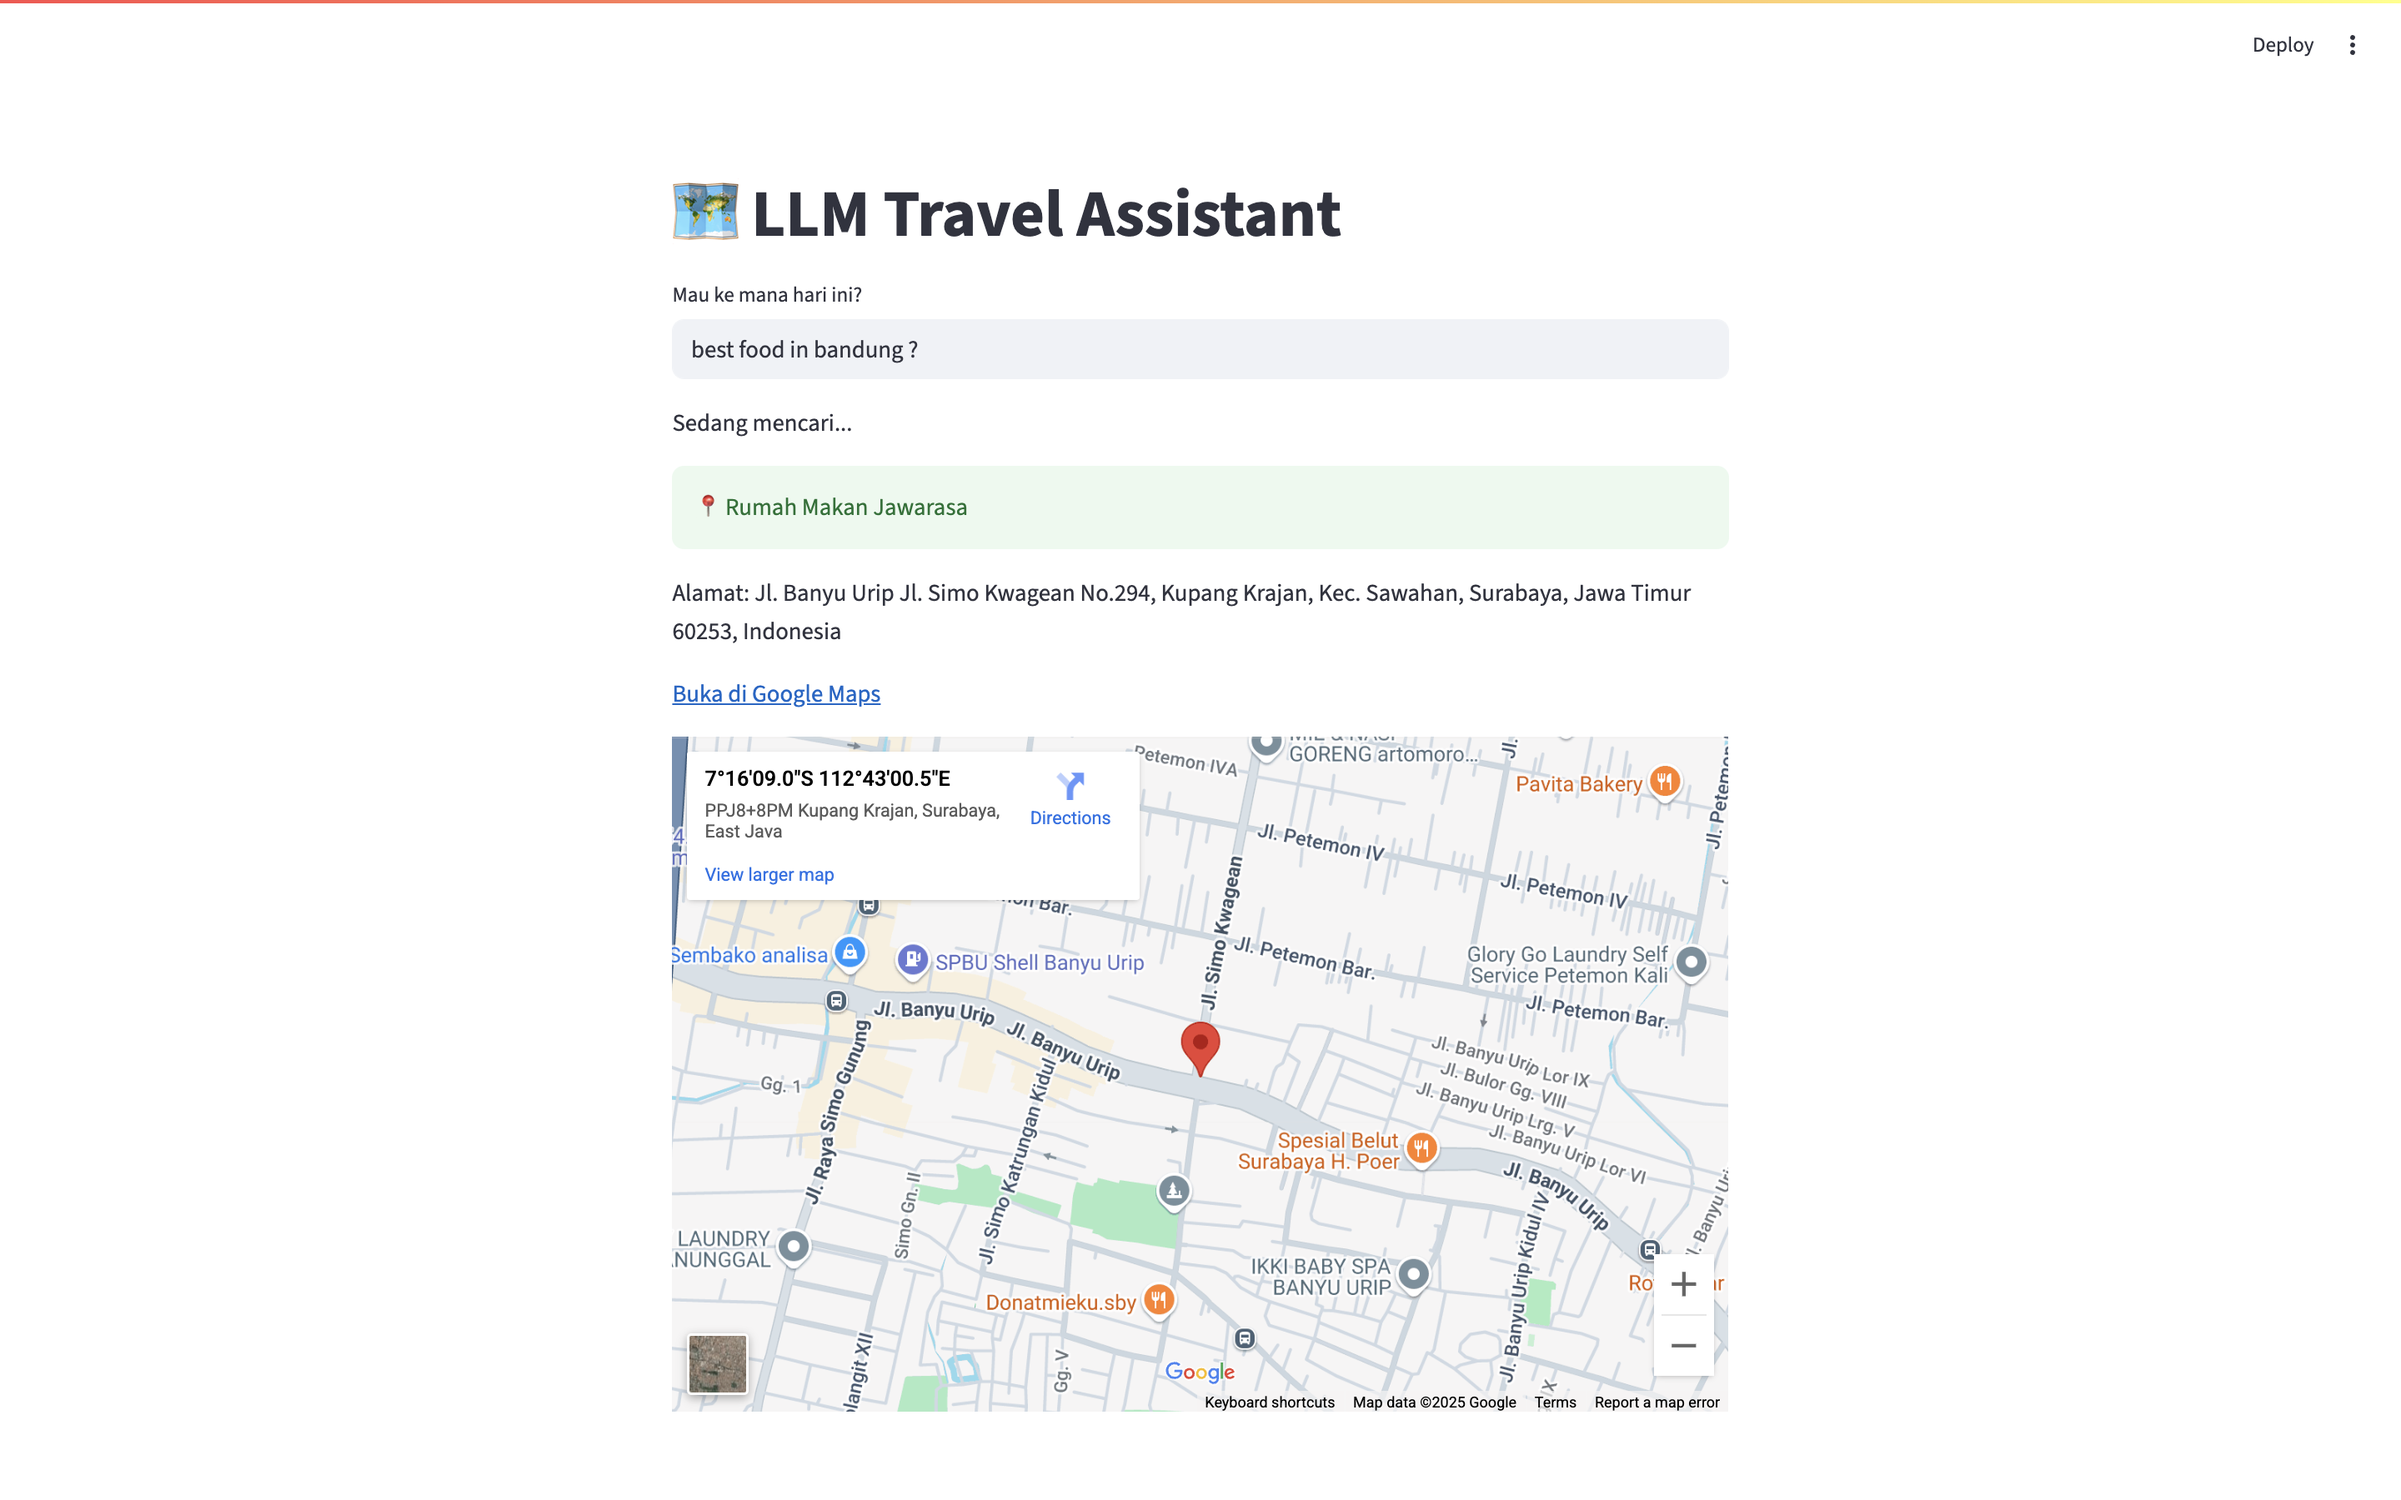
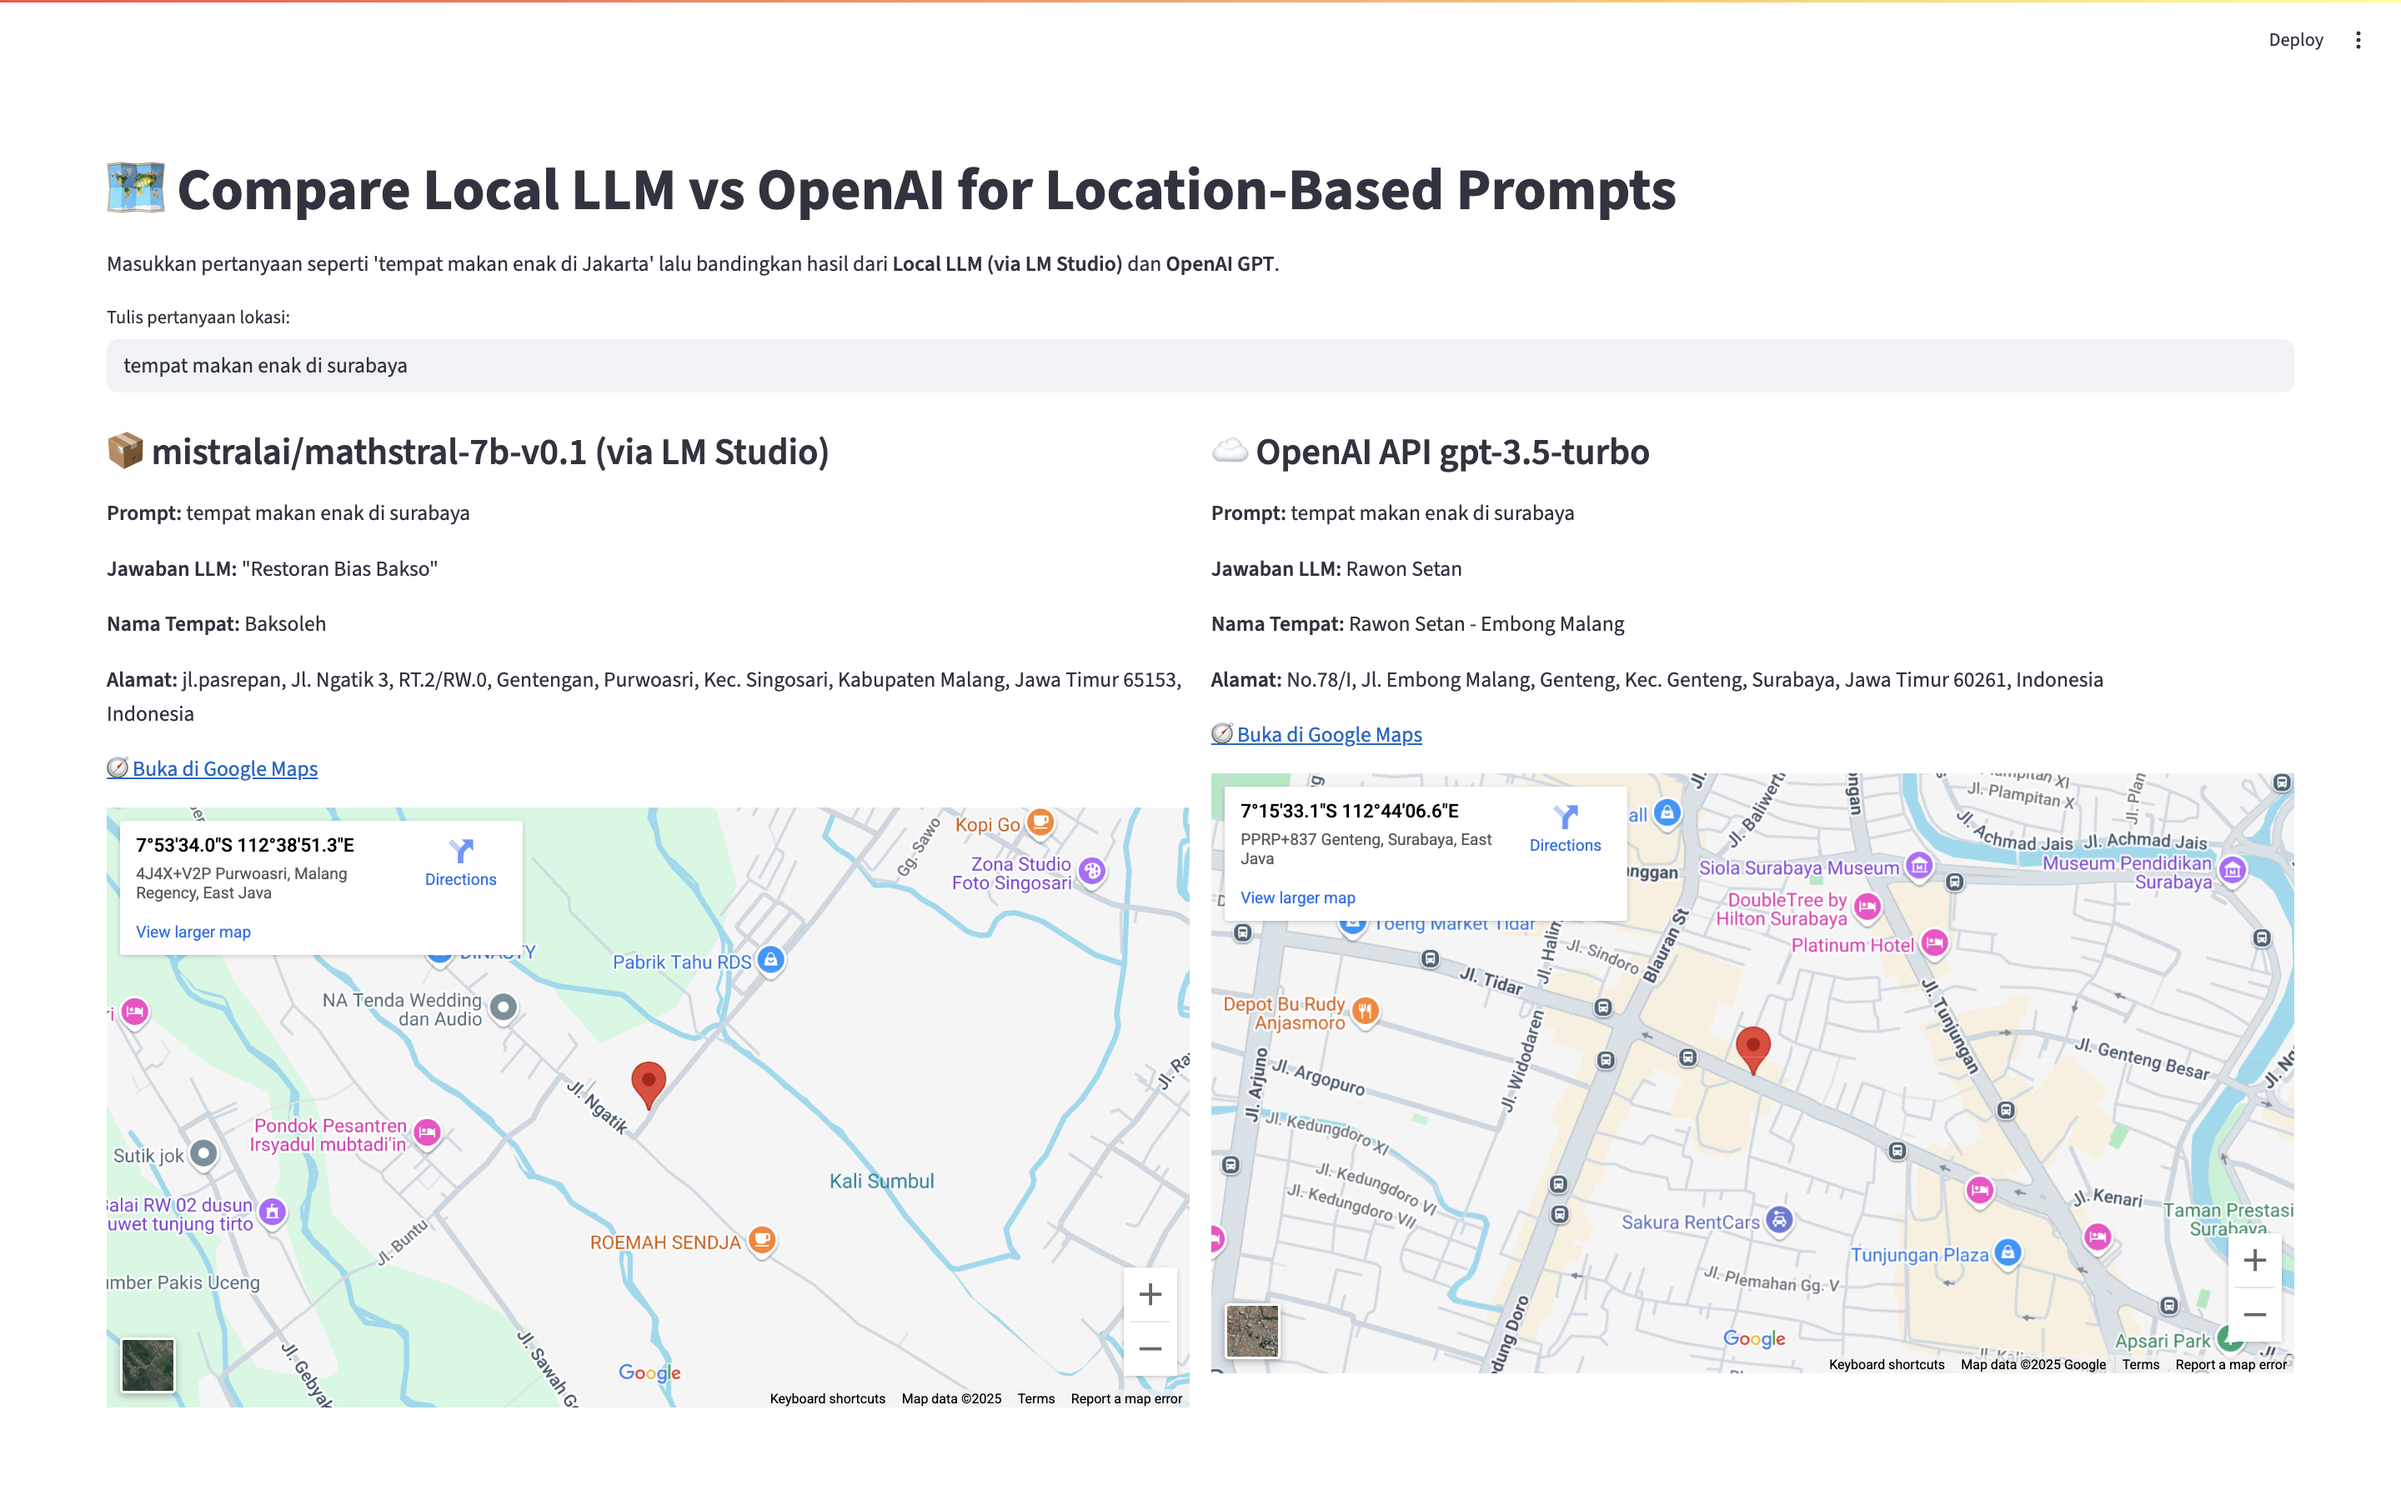
update README to include OpenAI API support and enhance feature descriptions

diff --git a/README.md b/README.md
@@ -1,6 +1,6 @@
 # 🗺 LLM Maps API
 
-This project is a lightweight travel assistant powered by a **local LLM (via LM Studio)** and the **Google Maps API**. It provides an API and a simple web UI to answer questions like:
+This project is a lightweight travel assistant powered by a **local LLM (via LM Studio)**, **OpenAI API** and the **Google Maps API**. It provides an API and a simple web UI to answer questions like:
 
 > "Where to eat in Bandung?"  
 > "Best coffee shop in Jakarta?"  
@@ -15,10 +15,12 @@ This project is a lightweight travel assistant powered by a **local LLM (via LM 
 
 ## 🔧 Features
 
-- 🧠 Uses local LLM (e.g. Mistral 7B) to interpret natural language queries
+- 🧠 Uses local LLM mathstral-7b-v0.1 via LM Studio to interpret natural language queries
+- ☁ Supports OpenAI gpt-3.5-turbo as optional comparison
 - 📍 Extracts and searches place info using **Google Places API (New)**
 - 🗺 Displays embedded map and external link to Google Maps
 - ⚡ Built with **FastAPI** and **Streamlit** (no frontend JS needed)
+- 🔀 Compare responses from both LLM sources side by side
 
 ---
 
@@ -71,6 +73,7 @@ Restrict it to API: <br>
 Create a .env file in the root directory:
 ```bash
 GOOGLE_MAPS_API_KEY=your_google_maps_api_key_here
+OPENAI_API_KEY=your_openai_api_key_here
 LLM_ENDPOINT=http://localhost:1234/v1
 ```
 
